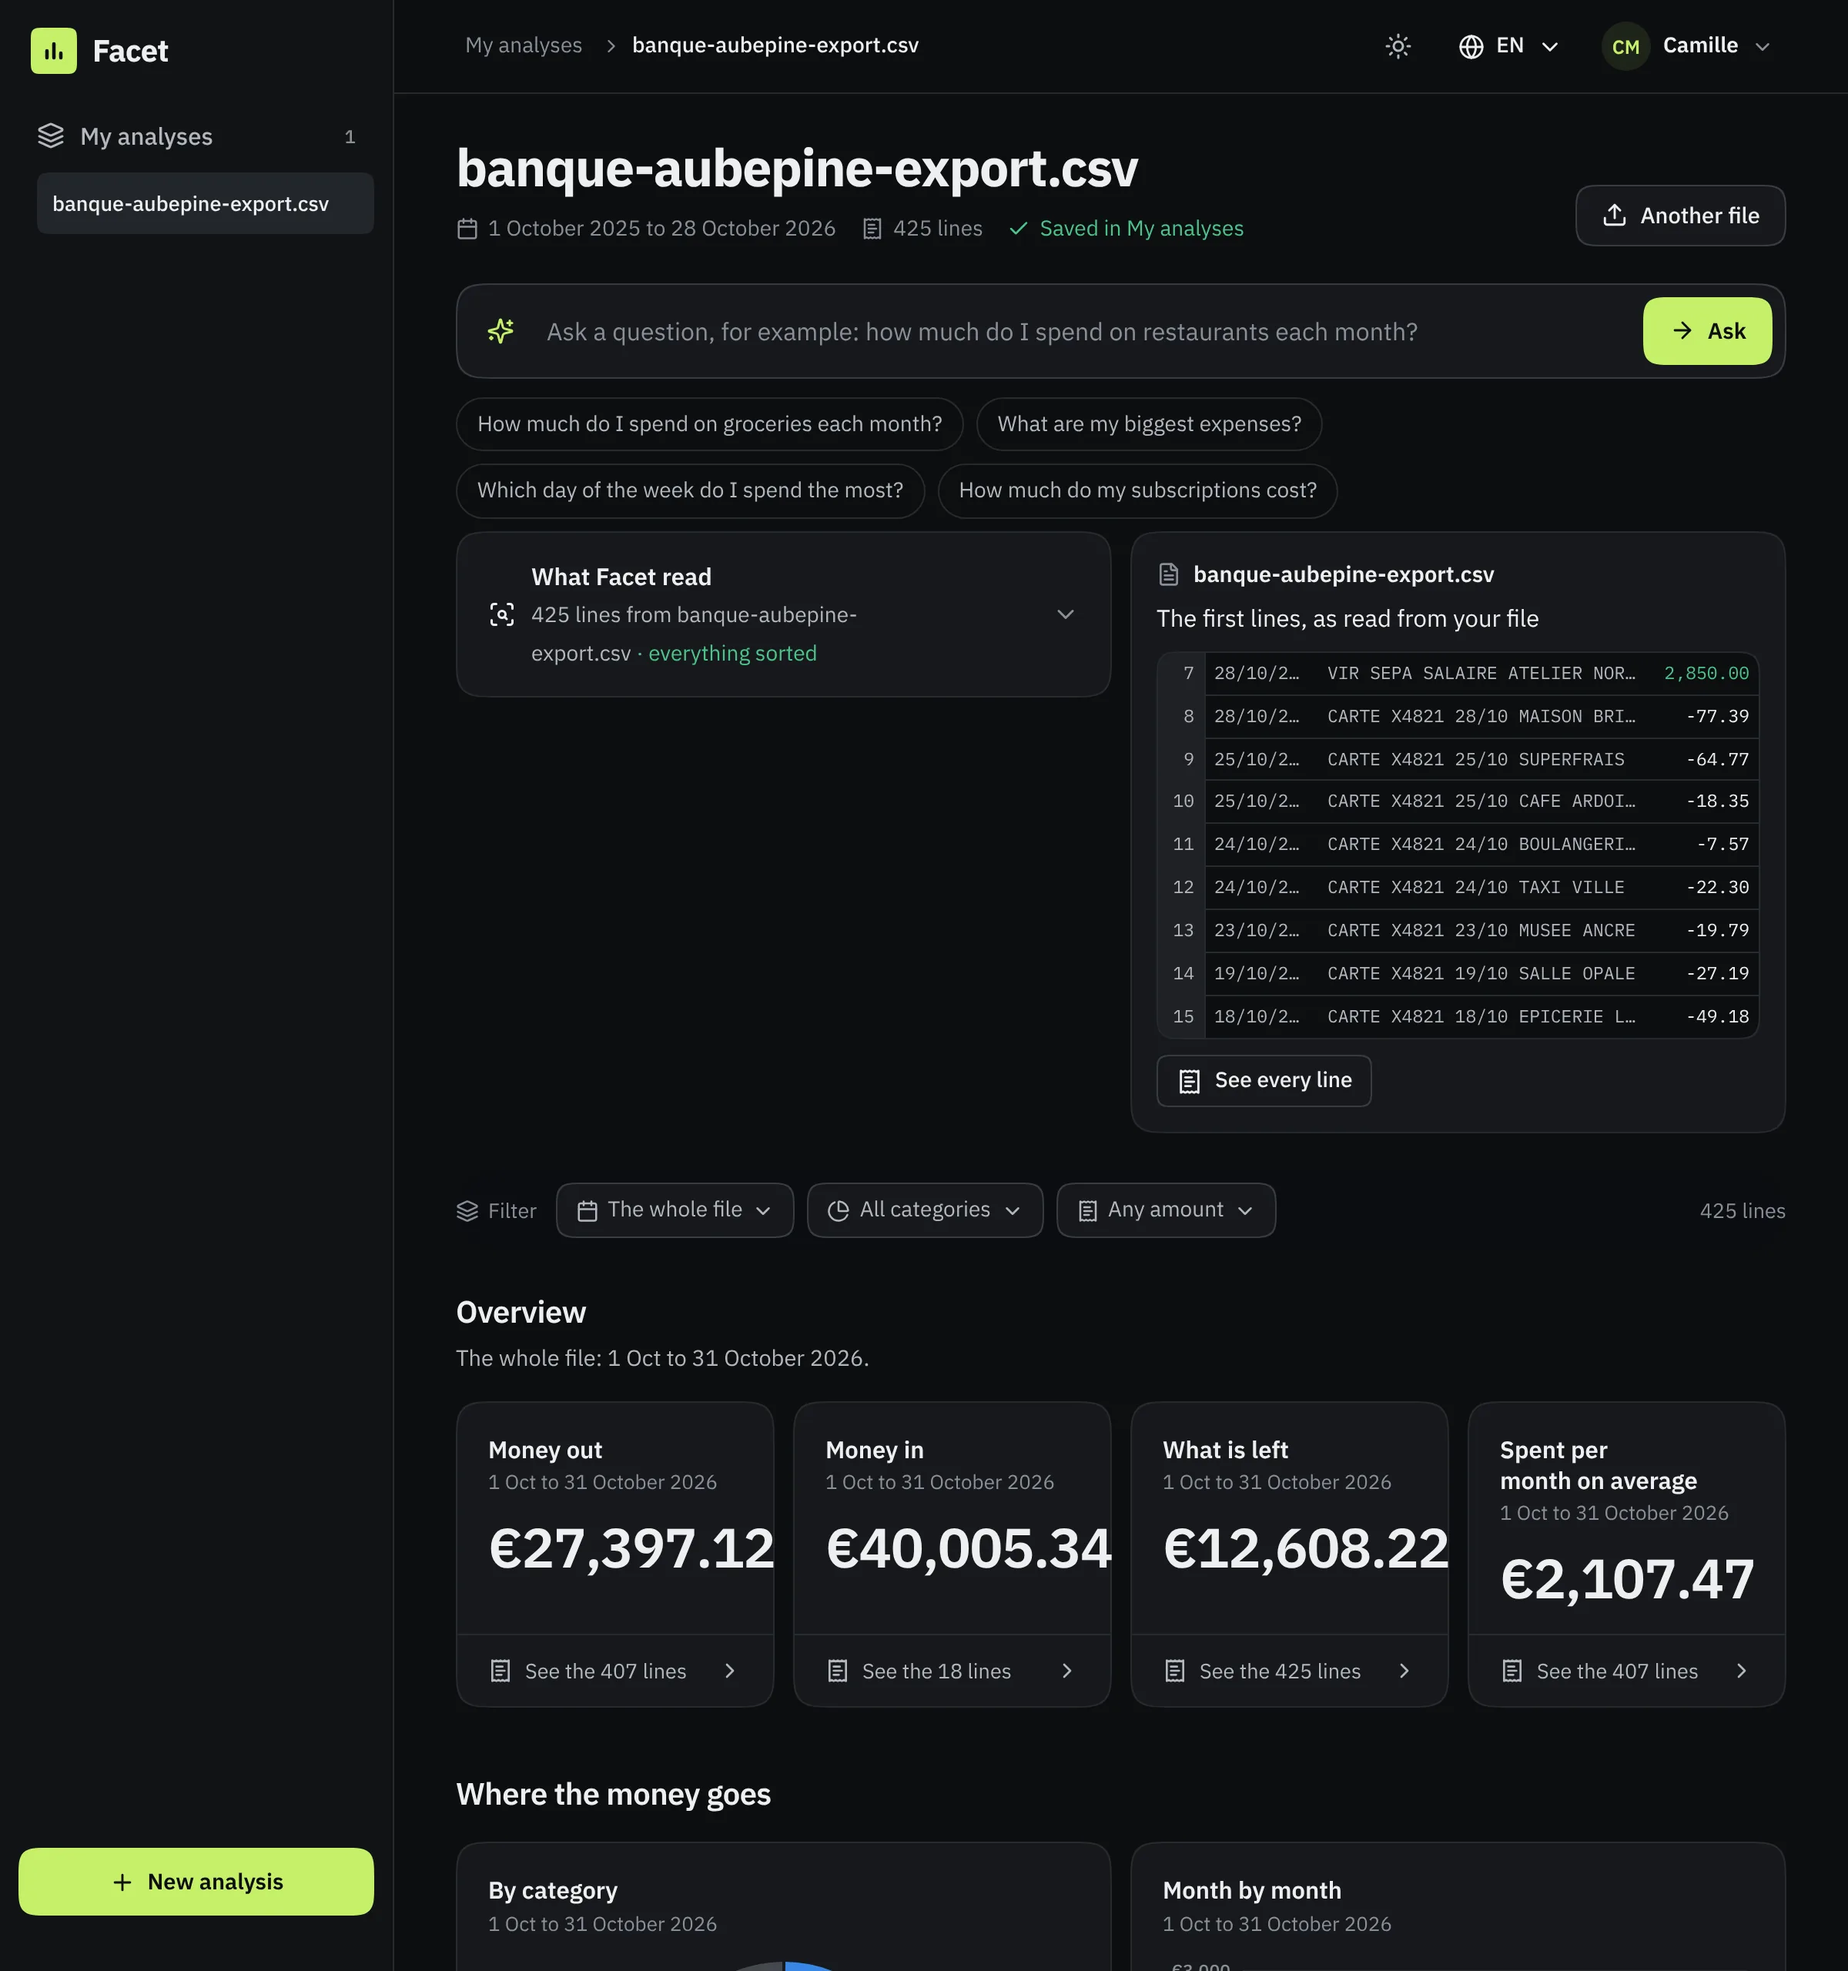
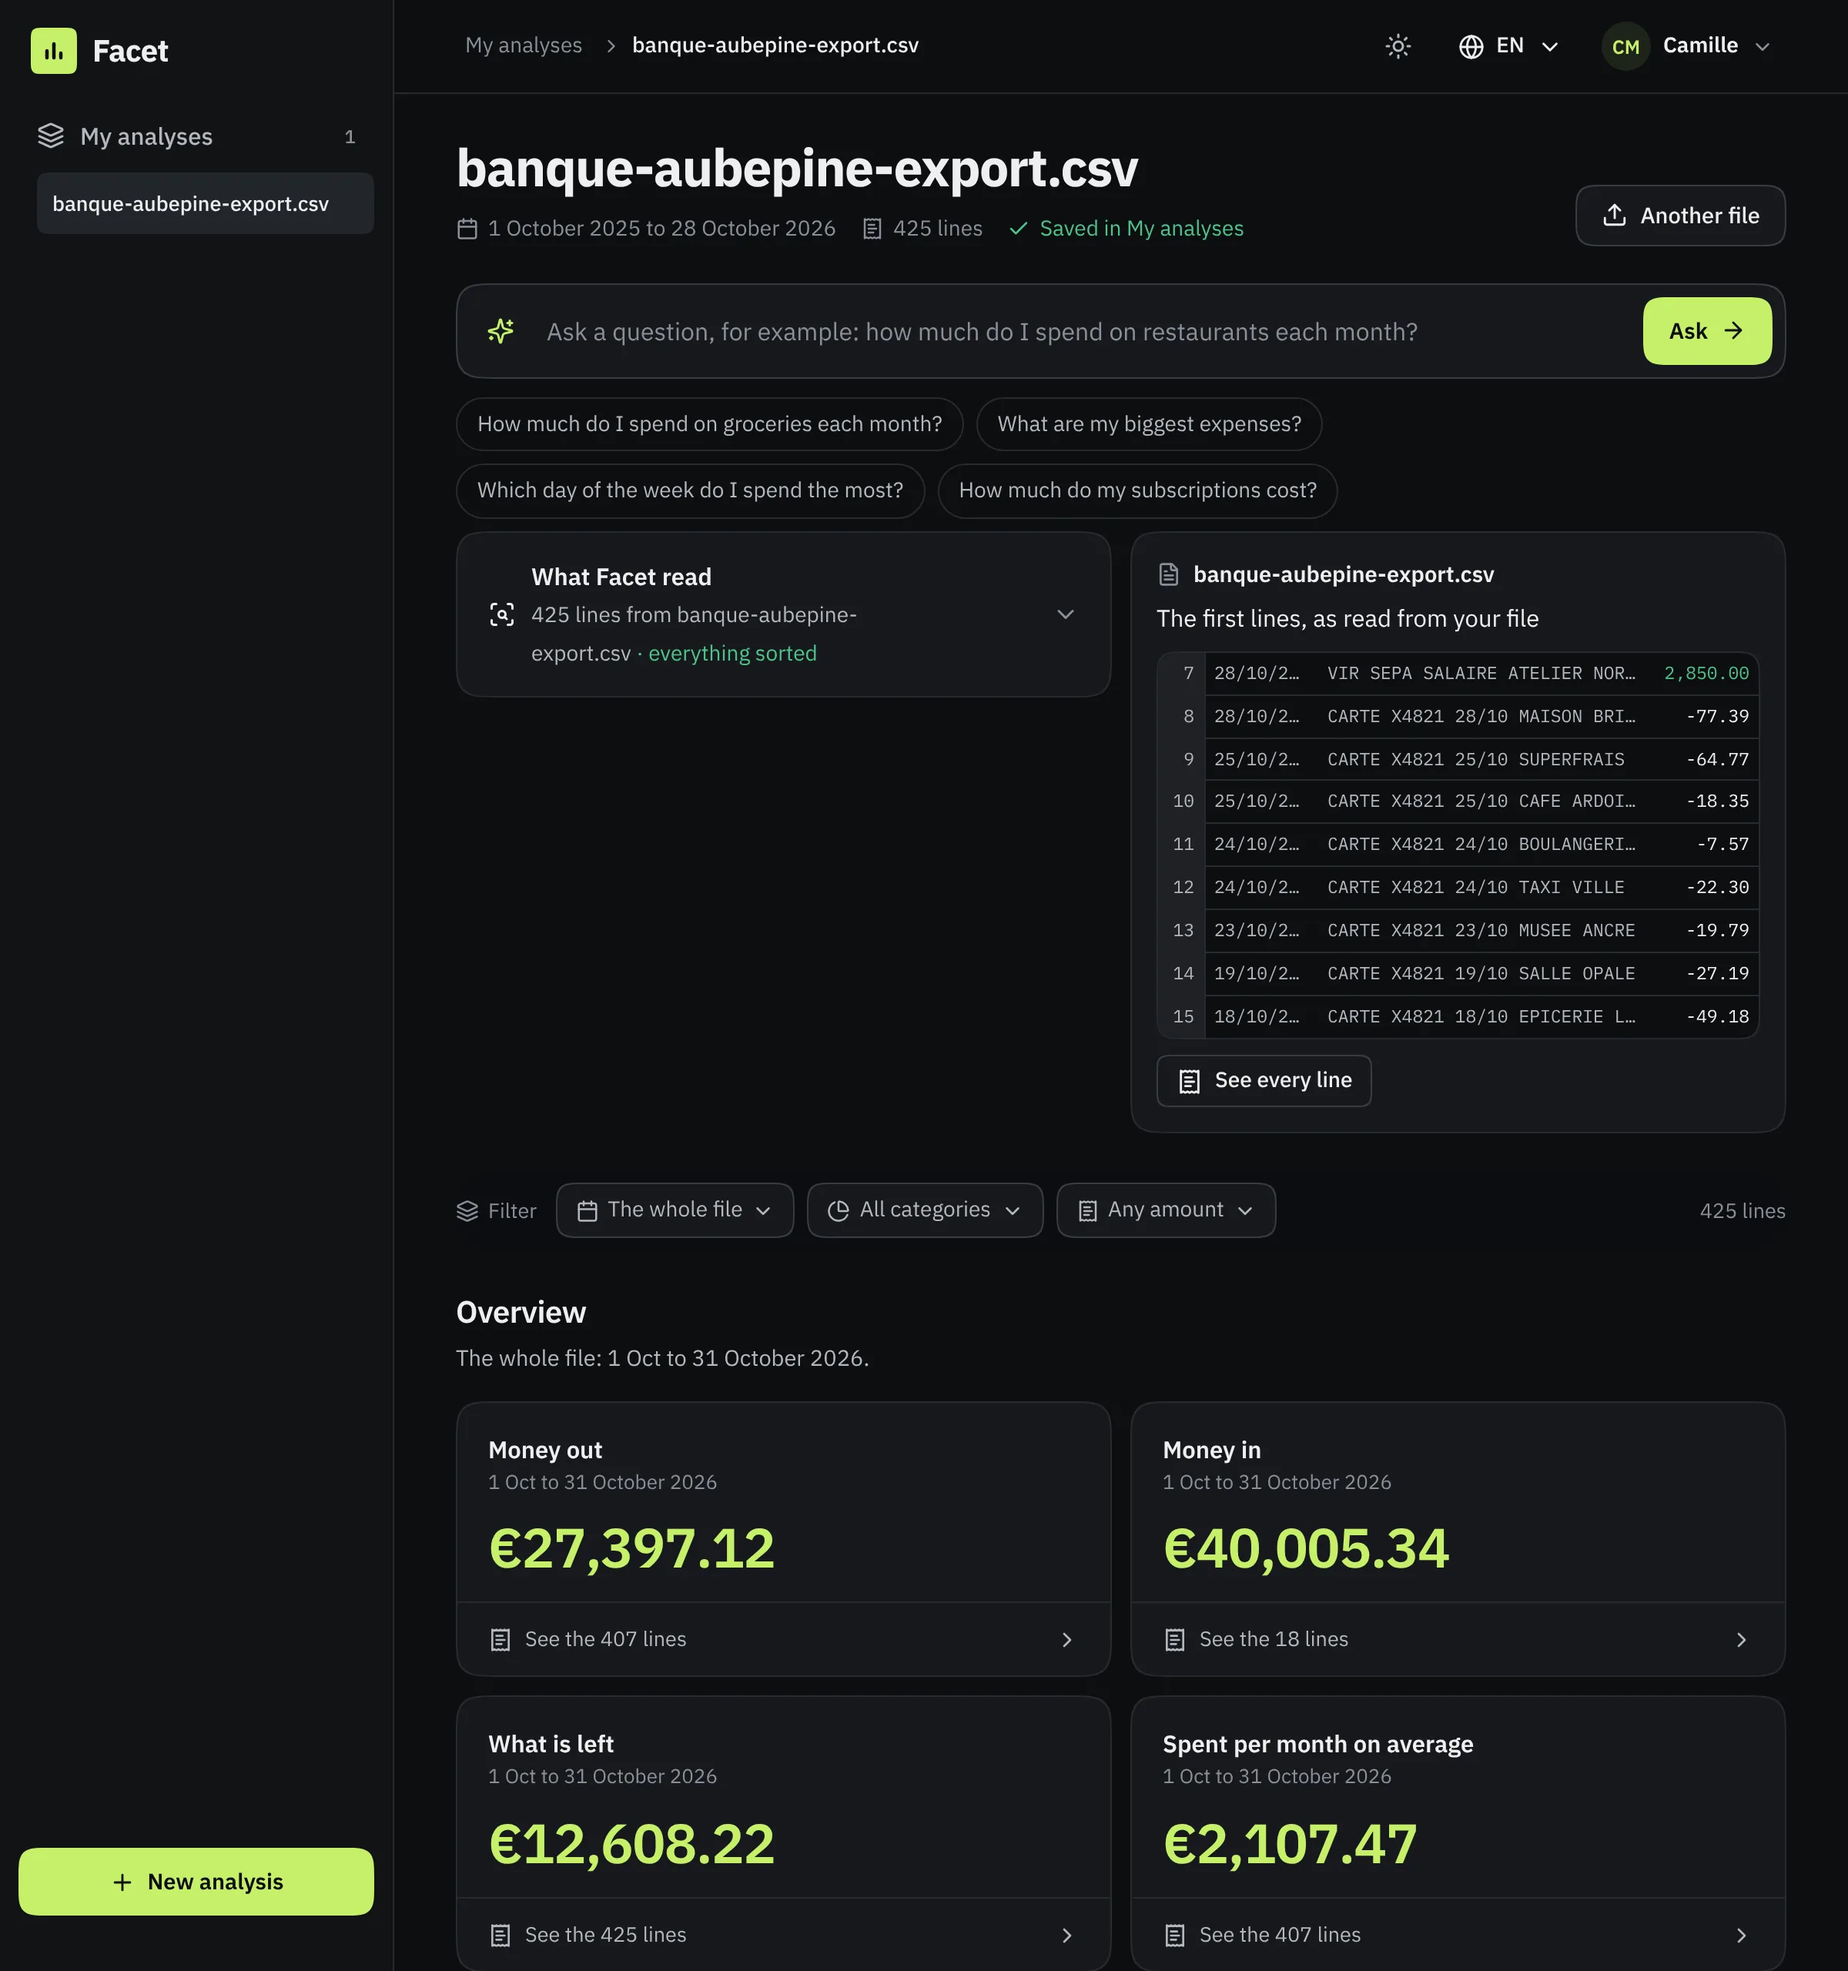
Facet v0.6.8 (includes v0.6.7): solid filter bar, right column follows at filter level, KPI cards 2 per row when narrow, case study screenshots refreshed

diff --git a/public/demo/facet/index.html b/public/demo/facet/index.html
@@ -461,7 +461,7 @@ table.tb { width: 100%; border-collapse: collapse; font-size: 14.5px; font-varia
 /* report: main column + the file on the right (wide screens) */
 .rep { display: grid; grid-template-columns: minmax(0, 1fr) 340px; gap: 24px; align-items: start; margin: 8px 0 0; }
 .rep-main { min-width: 0; container-type: inline-size; container-name: repm; }
-@container repm (max-width: 860px) { .card.kpi { grid-column: span 6 !important; } }
+@container repm (max-width: 920px) { .card.kpi { grid-column: span 6 !important; } }
 @container repm (max-width: 420px) { .card.kpi { grid-column: span 12 !important; } }
 .how-c { grid-template-columns: repeat(auto-fit, minmax(min(130px, 100%), 1fr)) !important; }
 .rep-side.stick { position: sticky; }
@@ -484,7 +484,7 @@ table.tb { width: 100%; border-collapse: collapse; font-size: 14.5px; font-varia
 .pv .btn { justify-self: start; }
 
 /* filters: one sticky row above the analysis */
-.fwrap { position: sticky; top: 61px; z-index: 20; margin: 0; padding: 8px 0; background: color-mix(in srgb, var(--bg) 88%, transparent); backdrop-filter: blur(10px); -webkit-backdrop-filter: blur(10px); border-radius: var(--r-xl); }
+.fwrap { position: sticky; top: var(--tbh, 61px); z-index: 20; margin: 0; padding: 8px 0; background: var(--bg); box-shadow: 0 0 0 100vmax var(--bg); clip-path: inset(0 -24px 0 -100vmax); } /* solid, square, glued under the top bar; its colour runs to the left edge and over the gap, not over the right column */
 .filters { display: flex; flex-wrap: wrap; align-items: center; gap: 8px; }
 .f-lead { display: inline-flex; align-items: center; gap: 6px; color: var(--ink-3); font-size: 13.5px; margin-inline-end: 4px; }
 .f-lead .i { width: 15px; height: 15px; }
@@ -582,7 +582,7 @@ table.tb { width: 100%; border-collapse: collapse; font-size: 14.5px; font-varia
 	.mtop .logo { margin-inline-end: auto; }
 	.main { padding: 24px 24px 48px; }
 	.topbar { display: none; }
-	.fwrap { top: 61px; }
+	.fwrap { top: var(--tbh, 61px); }
 	.mtop .dd .btn span { display: none; }
 	.mtop .me-btn .who, .mtop .me-btn .chev { display: none; }
 	.mtop .me-btn { padding: 2px; }

diff --git a/public/demo/facet/app.js b/public/demo/facet/app.js
@@ -488,9 +488,11 @@
 	/* wide screens: the right column starts level with the Overview cards, then follows the scroll (only when it fits the screen) */
 	function alignSide() {
 		const side = $(".rep-side"), main = $(".rep-main"), kpi = $("#g-kpi"), fw = $(".fwrap"); if (!side || !main || !kpi) return;
+		document.documentElement.style.setProperty("--tbh", ($(".topbar")?.offsetHeight || $(".mtop")?.offsetHeight || 61) + "px");
 		if (innerWidth < 1280) { side.style.marginTop = side.style.top = ""; side.classList.remove("stick"); return; }
 		side.style.marginTop = Math.max(0, Math.round(kpi.getBoundingClientRect().top - main.getBoundingClientRect().top)) + "px";
-		const top = ($(".topbar")?.offsetHeight || 0) + (fw ? fw.offsetHeight : 0) + 12;
+		const tb = $(".topbar")?.offsetHeight || 0; document.documentElement.style.setProperty("--tbh", tb + "px");
+		const top = tb + 8; // level with the filters inside their bar
 		side.style.top = top + "px";
 		side.classList.toggle("stick", side.offsetHeight <= innerHeight - top - 16);
 	}
